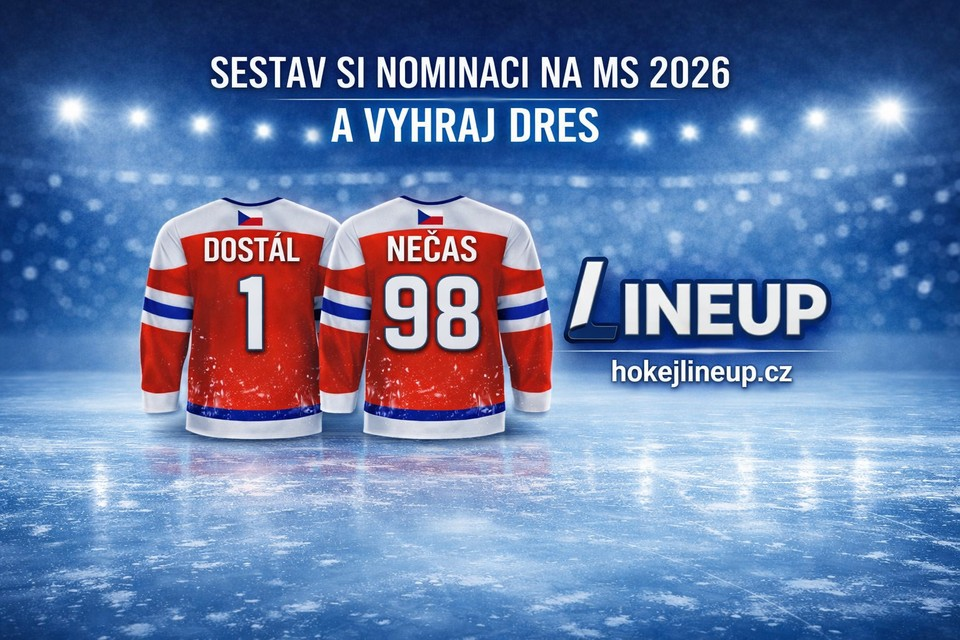
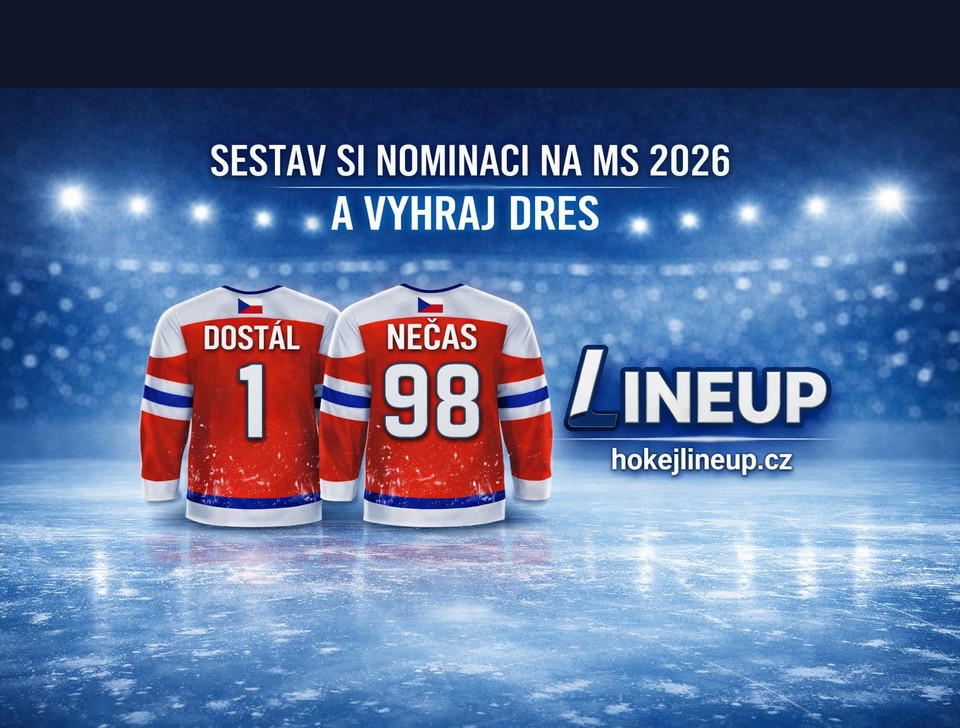
fix(og): pad promo PNG top safe area for Facebook crop; og dimensions + og:pad-top script
Made-with: Cursor

diff --git a/src/app/page.tsx b/src/app/page.tsx
@@ -2,7 +2,11 @@ import type { Metadata } from "next";
 import { LandingContent } from "@/components/LandingContent";
 import { SocialCoverPage } from "@/components/social/SocialCoverPage";
 import { SiteShell } from "@/components/site/SiteShell";
-import { SITE_OG_DEFAULT_IMAGE_URL } from "@/lib/siteBranding";
+import {
+  SITE_OG_DEFAULT_IMAGE_HEIGHT,
+  SITE_OG_DEFAULT_IMAGE_URL,
+  SITE_OG_DEFAULT_IMAGE_WIDTH,
+} from "@/lib/siteBranding";
 
 const homeOgDesc =
   "Časový bonus, editor sestavy, plakát a Pick’em play-off. Soutěž pro fanoušky.";
@@ -26,8 +30,8 @@ const homeMetadata: Metadata = {
     images: [
       {
         url: SITE_OG_DEFAULT_IMAGE_URL,
-        width: 1200,
-        height: 630,
+        width: SITE_OG_DEFAULT_IMAGE_WIDTH,
+        height: SITE_OG_DEFAULT_IMAGE_HEIGHT,
         alt: "Sestav si nominaci na MS 2026 a vyhraj dres — Lineup · hokejlineup.cz",
       },
     ],

diff --git a/src/app/layout.tsx b/src/app/layout.tsx
@@ -2,7 +2,12 @@ import type { Metadata } from "next";
 import "./globals.css";
 import { AuthProvider } from "@/components/AuthProvider";
 import { Toaster } from "sonner";
-import { SITE_ICON_URL, SITE_OG_DEFAULT_IMAGE_URL } from "@/lib/siteBranding";
+import {
+  SITE_ICON_URL,
+  SITE_OG_DEFAULT_IMAGE_HEIGHT,
+  SITE_OG_DEFAULT_IMAGE_URL,
+  SITE_OG_DEFAULT_IMAGE_WIDTH,
+} from "@/lib/siteBranding";
 
 function metadataBaseUrl(): URL {
   for (const raw of [process.env.NEXT_PUBLIC_SITE_URL, process.env.NEXTAUTH_URL]) {
@@ -38,8 +43,8 @@ export const metadata: Metadata = {
     images: [
       {
         url: SITE_OG_DEFAULT_IMAGE_URL,
-        width: 1200,
-        height: 630,
+        width: SITE_OG_DEFAULT_IMAGE_WIDTH,
+        height: SITE_OG_DEFAULT_IMAGE_HEIGHT,
         alt: "Sestav si nominaci na MS 2026 a vyhraj dres — Lineup · hokejlineup.cz",
       },
     ],

diff --git a/src/app/sestava/page.tsx b/src/app/sestava/page.tsx
@@ -1,7 +1,11 @@
 import type { Metadata } from "next";
 import { Suspense } from "react";
 import { NominationBuilderPage } from "@/components/NominationBuilderPage";
-import { SITE_OG_DEFAULT_IMAGE_URL } from "@/lib/siteBranding";
+import {
+  SITE_OG_DEFAULT_IMAGE_HEIGHT,
+  SITE_OG_DEFAULT_IMAGE_URL,
+  SITE_OG_DEFAULT_IMAGE_WIDTH,
+} from "@/lib/siteBranding";
 import { SestavaLoadingFallback } from "./SestavaLoadingFallback";
 
 export const metadata: Metadata = {
@@ -16,8 +20,8 @@ export const metadata: Metadata = {
     images: [
       {
         url: SITE_OG_DEFAULT_IMAGE_URL,
-        width: 1200,
-        height: 630,
+        width: SITE_OG_DEFAULT_IMAGE_WIDTH,
+        height: SITE_OG_DEFAULT_IMAGE_HEIGHT,
         alt: "Sestav si nominaci na MS 2026 a vyhraj dres — Lineup · hokejlineup.cz",
       },
     ],

diff --git a/src/app/share/page.tsx b/src/app/share/page.tsx
@@ -1,5 +1,9 @@
 import type { Metadata } from "next";
-import { SITE_OG_DEFAULT_IMAGE_URL } from "@/lib/siteBranding";
+import {
+  SITE_OG_DEFAULT_IMAGE_HEIGHT,
+  SITE_OG_DEFAULT_IMAGE_URL,
+  SITE_OG_DEFAULT_IMAGE_WIDTH,
+} from "@/lib/siteBranding";
 import { SharePageClient } from "./SharePageClient";
 
 const ogTitle = "Sestav si nominaci a vyhraj dres — Lineup · MS 2026";
@@ -22,8 +26,8 @@ export async function generateMetadata({
       images: [
         {
           url: SITE_OG_DEFAULT_IMAGE_URL,
-          width: 1200,
-          height: 630,
+          width: SITE_OG_DEFAULT_IMAGE_WIDTH,
+          height: SITE_OG_DEFAULT_IMAGE_HEIGHT,
           alt: "Sestav si nominaci na MS 2026 a vyhraj dres — Lineup · hokejlineup.cz",
         },
       ],

diff --git a/src/lib/siteBranding.ts b/src/lib/siteBranding.ts
@@ -6,8 +6,10 @@ const assetQ = assetV && assetV.length > 0 ? `?v=${encodeURIComponent(assetV)}` 
 export const SITE_LOGO_URL = `/images/logo.png${assetQ}`;
 export const SITE_ICON_URL = `/images/icon.png${assetQ}`;
 
-/** Výchozí OG/Twitter náhled odkazu — plakát (dresy MS 2026), doporučeno 1200×630 px. */
+/** Výchozí OG/Twitter náhled odkazu — plakát (dresy MS 2026). Rozměry musí odpovídat souboru (po úpravách spusť `node scripts/pad-og-top.mjs`). */
 export const SITE_OG_DEFAULT_IMAGE_URL = `/images/promo/og-share-ms2026-jerseys.png${assetQ}`;
+export const SITE_OG_DEFAULT_IMAGE_WIDTH = 960;
+export const SITE_OG_DEFAULT_IMAGE_HEIGHT = 728;
 
 export const SITE_BRAND = "Lineup";
 

diff --git a/src/app/share/layout.tsx b/src/app/share/layout.tsx
@@ -1,5 +1,9 @@
 import type { Metadata } from "next";
-import { SITE_OG_DEFAULT_IMAGE_URL } from "@/lib/siteBranding";
+import {
+  SITE_OG_DEFAULT_IMAGE_HEIGHT,
+  SITE_OG_DEFAULT_IMAGE_URL,
+  SITE_OG_DEFAULT_IMAGE_WIDTH,
+} from "@/lib/siteBranding";
 
 export const metadata: Metadata = {
   title: "Sdílená nominace",
@@ -14,8 +18,8 @@ export const metadata: Metadata = {
     images: [
       {
         url: SITE_OG_DEFAULT_IMAGE_URL,
-        width: 1200,
-        height: 630,
+        width: SITE_OG_DEFAULT_IMAGE_WIDTH,
+        height: SITE_OG_DEFAULT_IMAGE_HEIGHT,
         alt: "Sestav si nominaci na MS 2026 a vyhraj dres — Lineup · hokejlineup.cz",
       },
     ],
